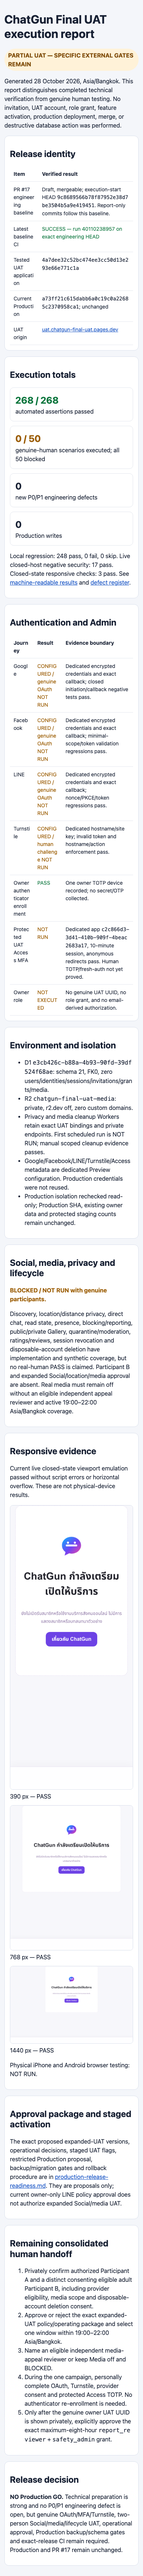
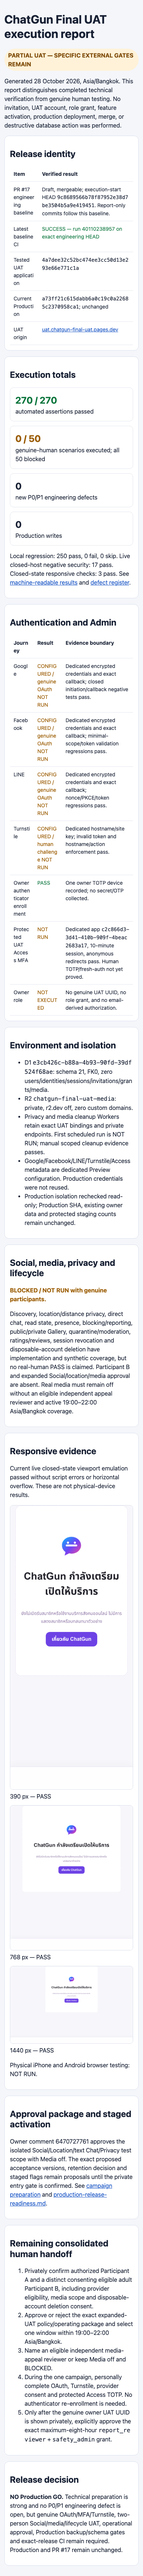
Prepare guarded two-person UAT campaign

Changed region(s): [[0.0615, 0.8111, 0.8308, 0.8735]]

diff --git a/docs/final-uat/execution-report.html b/docs/final-uat/execution-report.html
@@ -9,7 +9,7 @@
 
 <section class="card"><h2>Release identity</h2><table><tr><th>Item</th><th>Verified result</th></tr><tr><td>PR #17 engineering baseline</td><td>Draft, mergeable; execution-start HEAD <code>9c8689566b78f87952e38d7be3504b5a9e419451</code>. Report-only commits follow this baseline.</td></tr><tr><td>Latest baseline CI</td><td class="pass">SUCCESS — run 40110238957 on exact engineering HEAD</td></tr><tr><td>Tested UAT application</td><td><code>4a7dee32c52bc474ee3cc50d13e293e66e771c1a</code></td></tr><tr><td>Current Production</td><td><code>a73ff21c615dabb6a0c19c0a22685c2370958ca1</code>; unchanged</td></tr><tr><td>UAT origin</td><td><a href="https://uat.chatgun-final-uat.pages.dev">uat.chatgun-final-uat.pages.dev</a></td></tr></table></section>
 
-<section class="card"><h2>Execution totals</h2><div class="grid"><div class="metric"><strong class="pass">268 / 268</strong>automated assertions passed</div><div class="metric"><strong class="blocked">0 / 50</strong>genuine-human scenarios executed; all 50 blocked</div><div class="metric"><strong>0</strong>new P0/P1 engineering defects</div><div class="metric"><strong>0</strong>Production writes</div></div><p>Local regression: 248 pass, 0 fail, 0 skip. Live closed-host negative security: 17 pass. Closed-state responsive checks: 3 pass. See <a href="e2e-results.json">machine-readable results</a> and <a href="defect-register.md">defect register</a>.</p></section>
+<section class="card"><h2>Execution totals</h2><div class="grid"><div class="metric"><strong class="pass">270 / 270</strong>automated assertions passed</div><div class="metric"><strong class="blocked">0 / 50</strong>genuine-human scenarios executed; all 50 blocked</div><div class="metric"><strong>0</strong>new P0/P1 engineering defects</div><div class="metric"><strong>0</strong>Production writes</div></div><p>Local regression: 250 pass, 0 fail, 0 skip. Live closed-host negative security: 17 pass. Closed-state responsive checks: 3 pass. See <a href="e2e-results.json">machine-readable results</a> and <a href="defect-register.md">defect register</a>.</p></section>
 
 <section class="card"><h2>Authentication and Admin</h2><table><tr><th>Journey</th><th>Result</th><th>Evidence boundary</th></tr><tr><td>Google</td><td class="blocked">CONFIGURED / genuine OAuth NOT RUN</td><td>Dedicated encrypted credentials and exact callback; closed initiation/callback negative tests pass.</td></tr><tr><td>Facebook</td><td class="blocked">CONFIGURED / genuine OAuth NOT RUN</td><td>Dedicated encrypted credentials and exact callback; minimal-scope/token validation regressions pass.</td></tr><tr><td>LINE</td><td class="blocked">CONFIGURED / genuine OAuth NOT RUN</td><td>Dedicated encrypted credentials and exact callback; nonce/PKCE/token regressions pass.</td></tr><tr><td>Turnstile</td><td class="blocked">CONFIGURED / human challenge NOT RUN</td><td>Dedicated hostname/site key; invalid token and hostname/action enforcement pass.</td></tr><tr><td>Owner authenticator enrollment</td><td class="pass">PASS</td><td>One owner TOTP device recorded; no secret/OTP collected.</td></tr><tr><td>Protected UAT Access MFA</td><td class="blocked">NOT RUN</td><td>Dedicated app <code>c2c866d3-3d41-410b-909f-4beac2683a17</code>, 10-minute session, anonymous redirects pass. Human TOTP/fresh-auth not yet proved.</td></tr><tr><td>Owner role</td><td class="blocked">NOT EXECUTED</td><td>No genuine UAT UUID, no role grant, and no email-derived authorization.</td></tr></table></section>
 
@@ -19,7 +19,7 @@
 
 <section class="card"><h2>Responsive evidence</h2><p>Current live closed-state viewport emulation passed without script errors or horizontal overflow. These are not physical-device results.</p><div class="grid"><figure><img src="oauth-access-setup/closed-390.png" alt="Closed UAT at 390 pixels"><figcaption>390 px — PASS</figcaption></figure><figure><img src="oauth-access-setup/closed-768.png" alt="Closed UAT at 768 pixels"><figcaption>768 px — PASS</figcaption></figure><figure><img src="oauth-access-setup/closed-1440.png" alt="Closed UAT at 1440 pixels"><figcaption>1440 px — PASS</figcaption></figure></div><p>Physical iPhone and Android browser testing: NOT RUN.</p></section>
 
-<section class="card"><h2>Approval package and staged activation</h2><p>The exact proposed expanded-UAT versions, operational decisions, staged UAT flags, restricted Production proposal, backup/migration gates and rollback procedure are in <a href="production-release-readiness.md">production-release-readiness.md</a>. They are proposals only; current owner-only LINE policy approval does not authorize expanded Social/media UAT.</p></section>
+<section class="card"><h2>Approval package and staged activation</h2><p>Owner comment 6470727761 approves the isolated Social/Location/text Chat/Privacy test scope with Media off. The exact proposed acceptance versions, retention decision and staged flags remain proposals until the private entry gate is confirmed. See <a href="social-campaign-preparation.md">campaign preparation</a> and <a href="production-release-readiness.md">production-release-readiness.md</a>.</p></section>
 
 <section class="card"><h2>Remaining consolidated human handoff</h2><ol><li>Privately confirm authorized Participant A and a distinct consenting eligible adult Participant B, including provider eligibility, media scope and disposable-account deletion consent.</li><li>Approve or reject the exact expanded-UAT policy/operating package and select one window within 19:00–22:00 Asia/Bangkok.</li><li>Name an eligible independent media-appeal reviewer or keep Media off and BLOCKED.</li><li>During the one campaign, personally complete OAuth, Turnstile, provider consent and protected Access TOTP. No authenticator re-enrollment is needed.</li><li>Only after the genuine owner UAT UUID is shown privately, explicitly approve the exact maximum-eight-hour <code>report_reviewer</code> + <code>safety_admin</code> grant.</li></ol></section>
 

diff --git a/test/final-uat-social-campaign.test.js b/test/final-uat-social-campaign.test.js
@@ -1,0 +1,52 @@
+import test from 'node:test';
+import assert from 'node:assert/strict';
+import { readFileSync } from 'node:fs';
+import { finalUatSocialVars, PROPOSED_POLICY, sanitizedCampaignSummary, validateFinalUatSocialApproval } from '../scripts/lib/final-uat-social-campaign.mjs';
+
+function receipt() {
+  const participant = (reference, provider, hash) => ({ reference, provider, providerAccountReferenceSha256: hash, genuineDistinctAdultConfirmed: true, age20PlusConfirmed: true, individualConsentConfirmed: true, providerTesterEligible: true, socialScopeConsent: true, locationScopeConsent: true, chatScopeConsent: true, privacyScopeConsent: true, disposableTestDataConsent: true, mediaConsentUsed: false, accountDeletionConsent: reference === 'B' });
+  return {
+    scope: 'final-uat-social-location-chat-privacy', ownerAuthorizationComment: 6470727761, policyApproved: true,
+    policyVersions: PROPOSED_POLICY.versions, policyFiles: PROPOSED_POLICY.files,
+    operations: { moderationCoverage: '19:00-22:00 Asia/Bangkok daily', no24x7OrBackupModeratorClaim: true, mediaEnabled: false, publicRegistrationEnabled: false, youthAdmissionEnabled: false, productionChangesAuthorized: false, retentionDecision: 'campaign-plus-7-days-logical-cleanup-with-recovery-caveat', recoveryCaveatAcknowledged: true, ownerAccountDeletionAuthorized: false },
+    window: { timezone: 'Asia/Bangkok', start: '2026-10-29T19:00:00+07:00', end: '2026-10-29T22:00:00+07:00' },
+    participants: [participant('A', 'line', 'a'.repeat(64)), participant('B', 'google', 'b'.repeat(64))],
+  };
+}
+
+test('approved two-adult UAT scope enables only Social Location Chat and Privacy', () => {
+  const vars = finalUatSocialVars(receipt());
+  assert.equal(vars.OAUTH_ENABLED_PROVIDERS, 'google,line');
+  for (const key of ['OAUTH_LOGIN_ENABLED', 'BETA_INVITATION_REGISTRATION_ENABLED', 'ACCEPTANCE_FLOW_ENABLED', 'ADULT_ONBOARDING_ENABLED', 'SOCIAL_APP_ENABLED', 'PUBLIC_DISCOVERY_ENABLED', 'MESSAGING_ENABLED', 'PRESENCE_ENABLED']) assert.equal(vars[key], 'true', key);
+  for (const key of ['NEW_ACCOUNT_REGISTRATION_ENABLED', 'MEDIA_UPLOAD_ENABLED', 'MODERATION_TOOLS_ENABLED', 'ACCOUNT_MODERATION_ENABLED', 'SENSITIVE_CONTENT_ENABLED', 'EMAIL_OTP_ENABLED', 'MOBILE_OTP_ENABLED', 'IDENTITY_VERIFICATION_ENABLED', 'DEMO_MODE_ENABLED']) assert.equal(vars[key], 'false', key);
+  const summary = sanitizedCampaignSummary(receipt());
+  assert.ok(!JSON.stringify(summary).includes('a'.repeat(64)) && !JSON.stringify(summary).includes('b'.repeat(64)));
+});
+
+test('UAT gate rejects missing policy approval, duplicate people, media, public/youth/Production and out-of-coverage windows', () => {
+  const base = receipt();
+  for (const changed of [
+    { ...base, policyApproved: false },
+    { ...base, participants: [base.participants[0], { ...base.participants[1], providerAccountReferenceSha256: base.participants[0].providerAccountReferenceSha256 }] },
+    { ...base, operations: { ...base.operations, mediaEnabled: true } },
+    { ...base, operations: { ...base.operations, publicRegistrationEnabled: true } },
+    { ...base, operations: { ...base.operations, youthAdmissionEnabled: true } },
+    { ...base, operations: { ...base.operations, productionChangesAuthorized: true } },
+    { ...base, window: { timezone: 'Asia/Bangkok', start: '2026-10-29T18:00:00+07:00', end: '2026-10-29T20:00:00+07:00' } },
+  ]) assert.throws(() => validateFinalUatSocialApproval(changed));
+});
+
+test('campaign executors remain UAT-only, time-bounded, hashed and Media-off', () => {
+  const activate = readFileSync('scripts/activate-final-uat-social.mjs', 'utf8');
+  const issue = readFileSync('scripts/issue-final-uat-invitations.mjs', 'utf8');
+  assert.match(activate, /FINAL_UAT_APPLICATION_SHA/u);
+  assert.match(activate, /mediaUploadEnabled, false/u);
+  assert.match(activate, /productionWrites: 0/u);
+  assert.match(activate, /prepare-final-uat\.mjs deploy/u);
+  assert.match(issue, /randomBytes\(32\)/u);
+  assert.match(issue, /createHash\('sha256'\)/u);
+  assert.match(issue, /issuedAt \+ 1800/u);
+  assert.match(issue, /max_uses,use_count/u);
+  assert.match(issue, /Refusing duplicate invitation issuance/u);
+  assert.doesNotMatch(issue, /chatgun-auth|9738a051|chatgun\.social/u);
+});

diff --git a/docs/final-uat/social-campaign-preparation.md b/docs/final-uat/social-campaign-preparation.md
@@ -1,0 +1,40 @@
+# Social / Location / Chat / Privacy campaign preparation
+
+Owner authorization: PR #17 comment `6470727761`, 28 October 2026. Scope approval is valid for isolated UAT only. It is not policy-version approval, participant verification, an Admin grant, or Production authorization.
+
+## Completed independent preparation
+
+- Reverified PR #17 baseline, exact-head CI, frozen UAT application SHA, closed live flags, schema 21/FK0, empty UAT cohort, private R2, cleanup Workers, provider credential metadata, Turnstile, Access redirect boundary and Production isolation.
+- Added a fail-closed campaign gate for exactly two distinct privately verified adults and only their approved provider allowlist.
+- Prepared exact proposed acceptance versions/hashes and a mode-0600 private handoff outside Git.
+- Prepared staged Social/Location/text Chat/presence/privacy flags with Media, public registration, youth, Sensitive, OTP, demo, Admin roles and Production changes hard-disabled.
+- Prepared a scheduled activation executor that verifies the frozen application, exact D1/R2, encrypted provider/Turnstile/Access metadata, empty pre-campaign cohort, policy hashes, rollback and post-deploy flag read-back.
+- Prepared an invitation executor that can act only inside the approved 19:00–22:00 Bangkok window. It inserts exactly two SHA-256 hashes in one UAT-only statement, creates 32-byte single-use tokens with 30-minute expiry, writes raw URLs only to a new mode-0600 local file and prints no token.
+- Added regression tests proving the campaign gate rejects missing policy approval, duplicate participant references, Media, public/youth/Production activation and out-of-coverage windows.
+
+## Proposed active UAT scope
+
+Enable only OAuth for the privately approved A/B providers, invitation-only admission, acceptance, adult onboarding, member profiles, Discovery, voluntary approximate location, direct text Chat and presence. Ratings and all Media capabilities remain off.
+
+Exact policy proposal:
+
+| Record | Version | SHA-256 artifact |
+|---|---|---|
[4 lines of base64/hex data omitted]
+
+Proposed retention decision: logical UAT cleanup within seven days after campaign close, with minimum sanitized audit evidence retained and an explicit acknowledgement that Cloudflare recovery/backup lifecycle is not individually rewritten. The owner's account is never deleted. Participant B account deletion is run only if B gives specific consent.
+
+## Entry gate still required
+
+The single private handoff must confirm:
+
+1. A and B are distinct genuine adults aged 20+, each individually consenting to Social, voluntary approximate location, text Chat, presence/privacy and disposable UAT data.
+2. Each chosen Google/Facebook/LINE identity is eligible for the corresponding UAT provider application. No password, OTP, token, cookie, DOB or identity document is collected.
+3. Explicit approval of the four exact policy versions/hashes and the retention/recovery decision above.
+4. One exact campaign date/start/end entirely within 19:00–22:00 Asia/Bangkok.
+5. Whether B specifically consents to deleting the disposable UAT account during the lifecycle case.
+
+Until all five are complete, UAT remains closed and empty; no invitation is issued. Once complete, activation, two invitations and one coordinated human campaign can run without another preparation cycle.

diff --git a/docs/final-uat/defect-register.md b/docs/final-uat/defect-register.md
@@ -2,14 +2,14 @@
 
 Classification: **PARTIAL UAT — SPECIFIC EXTERNAL GATES REMAIN**
 
-No new engineering defect was discovered by the 28 October 2026 baseline recheck. The full local suite passed 248/248, the live closed-host negative suite passed 17/17, and responsive closed-state checks passed at 390, 768 and 1440 pixels.
+No new engineering defect was discovered by the 28 October 2026 baseline recheck and bounded Social-campaign preparation. The full local suite passed 250/250, the live closed-host negative suite passed 17/17, and responsive closed-state checks passed at 390, 768 and 1440 pixels.
 
 | ID | Severity | Status | Finding | Resolution / evidence |
 |---|---:|---|---|---|
 | CG-UAT-001 | P1 | FIXED / REGRESSION PASS | An earlier direct-upload package could omit plain-text UAT flags and the Turnstile site key while retaining encrypted secrets. | Deployment tooling now serializes and verifies flags/site key. `test/final-uat-infrastructure.test.js` and the live closed-host configuration checks pass. The frozen UAT deployment remains closed. |
 | CG-UAT-002 | — | EXTERNAL GATE | Genuine Google, Facebook and LINE callbacks have not been executed by authorized humans. | Not an engineering defect. Keep OAuth/admission closed until the consolidated campaign is approved and scheduled. |
 | CG-UAT-003 | — | EXTERNAL GATE | Protected UAT Access login with TOTP and recent-auth has not been completed. | Owner authenticator enrollment is verified, but enrollment is not application-MFA evidence. No role grant exists. |
-| CG-UAT-004 | — | EXTERNAL GATE | Participant B is not confirmed; expanded Social/location/media policy scope is not approved. | Do not invent a tester, issue invitations, enable features, or use real media. |
+| CG-UAT-004 | — | EXTERNAL GATE | Social/Location/Chat/Privacy test scope is approved, but A/B private admission facts, exact policy versions and the campaign window are not confirmed. | Do not invent a tester, issue invitations or enable features until the one private entry gate passes. Media remains outside scope. |
 | CG-UAT-005 | — | EXTERNAL GATE | No independent media-appeal reviewer or backup moderator is confirmed. | Keep real media upload off unless an eligible reviewer and operating procedure are explicitly approved. Current coverage remains 19:00–22:00 Asia/Bangkok daily. |
 
 Open P0 defects: **0**. Open P1 engineering defects: **0**. This does not make the release production-ready because genuine human UAT and operational gates remain incomplete.

diff --git a/docs/final-uat/production-release-readiness.md b/docs/final-uat/production-release-readiness.md
@@ -12,7 +12,7 @@ Production deployment is **not authorized**. Draft PR #17 must not be merged aut
 | Latest GitHub CI at execution start | SUCCESS, run `40110238957`, exact engineering HEAD |
 | Frozen/tested UAT application | `4a7dee32c52bc474ee3cc50d13e293e66e771c1a` |
 | Current Production | `a73ff21c615dabb6a0c19c0a22685c2370958ca1` |
-| Local regression | 248 pass, 0 fail, 0 skip |
+| Local regression | 250 pass, 0 fail, 0 skip |
 | Live closed-UAT security | 17 pass, 0 fail |
 | Genuine human UAT | 0 pass; 50 blocked/not executed |
 | Open P0/P1 engineering defects | 0 / 0 |
